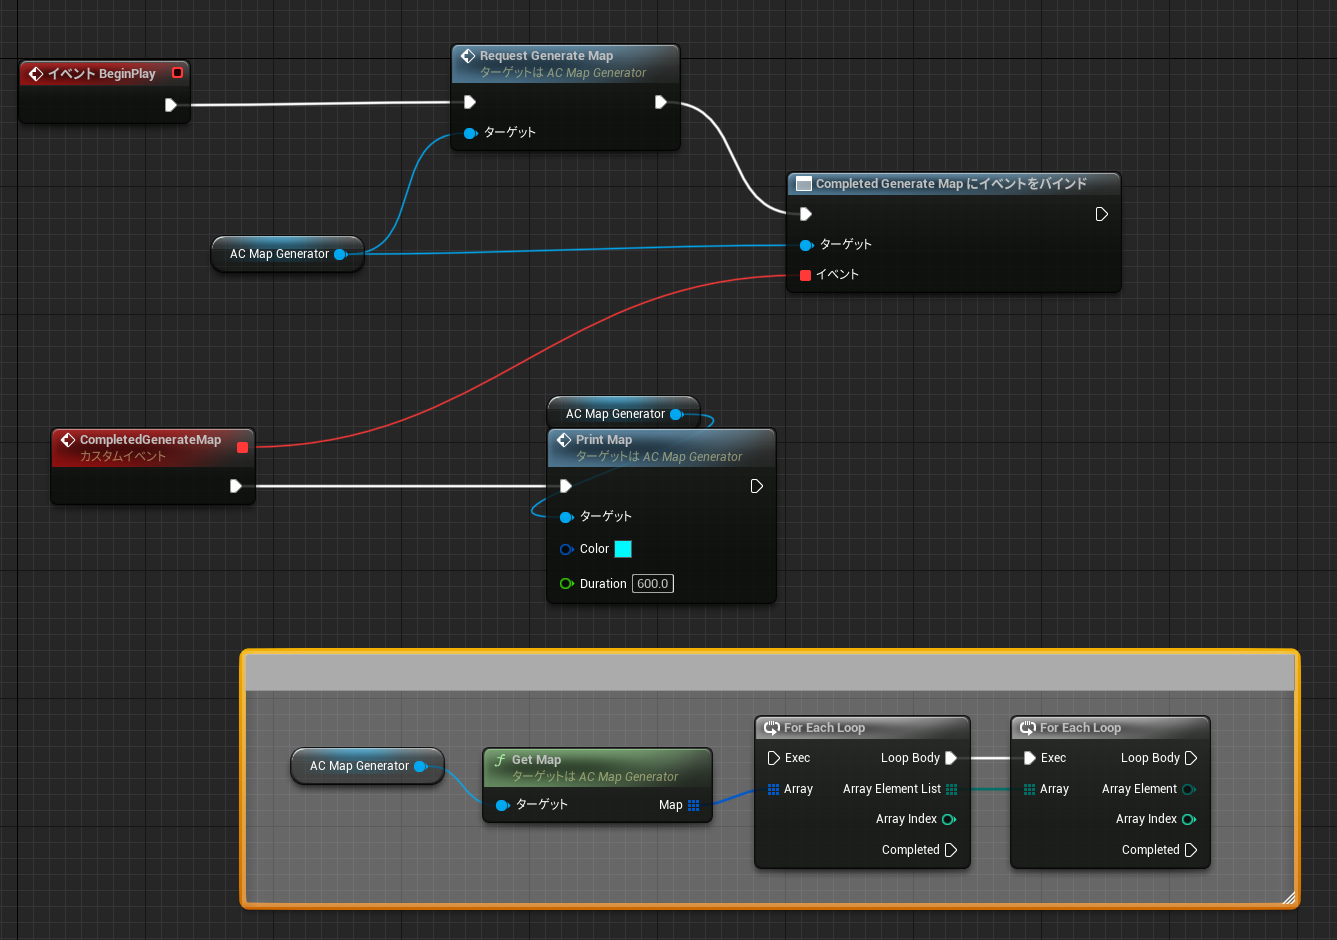
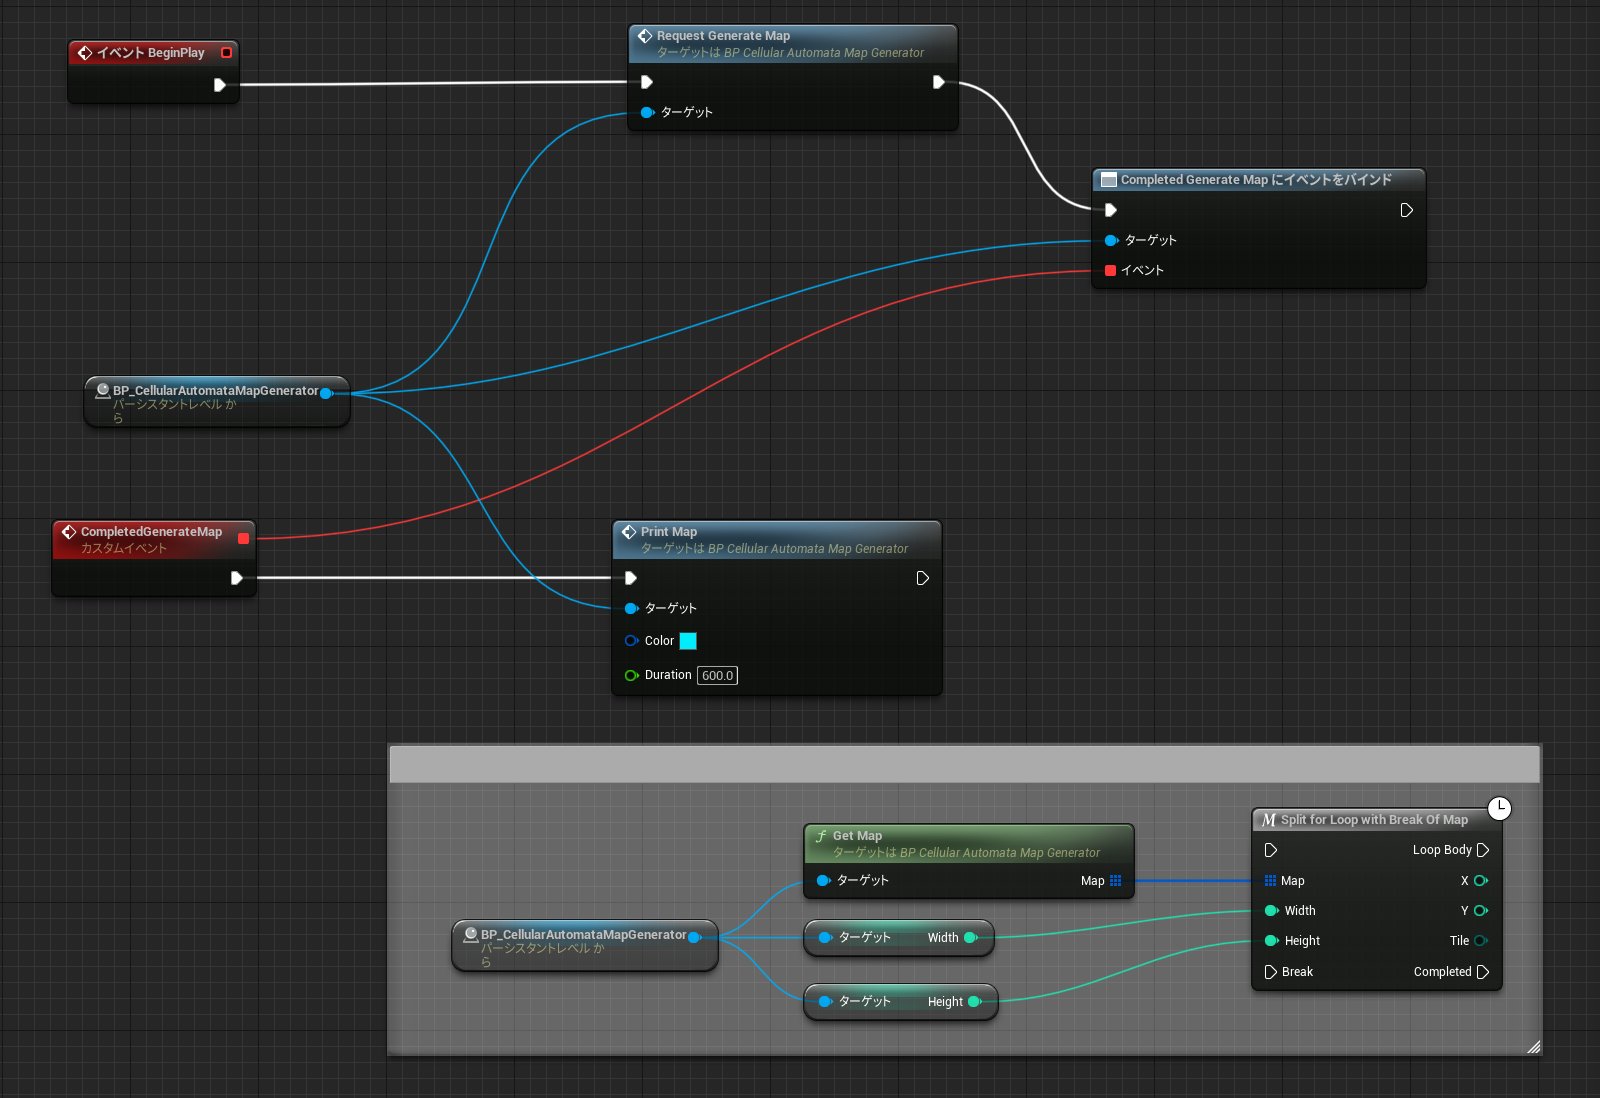
update

diff --git a/README.md b/README.md
@@ -4,12 +4,12 @@ Cellular Automata を用いたマップ生成 for Unreal Engine
 ## 留意事項
 - エンジンバージョン : 5.1.1
 - Blueprint Onlyで実装しています
-- 生成開始時にプチフリが起きることを確認しています(100x100以上になると顕著)
+- 対策していますがプチフリが発生する場合があります。
 
 ## 使い方
-- マップ生成用のActorにAC_MapGeneratorをアタッチします
+- レベルに直接配置やスポーン、ChildActorなどでBP_CellularAutomataMapGeneratorを生成します。
 
-- アタッチしたActorで使用で下記のようにBPを組みます(実際にはPrintMapの部分はコメントで囲っている部分と差し替えてマップ生成に利用します)
+- 下記のようにBPを組みます(実際にはPrintMapの部分はコメントで囲っている部分と差し替えてマップ生成に利用します)
 ![bp](_Documents/bp.PNG)
 
 - PrintMapによる出力例
